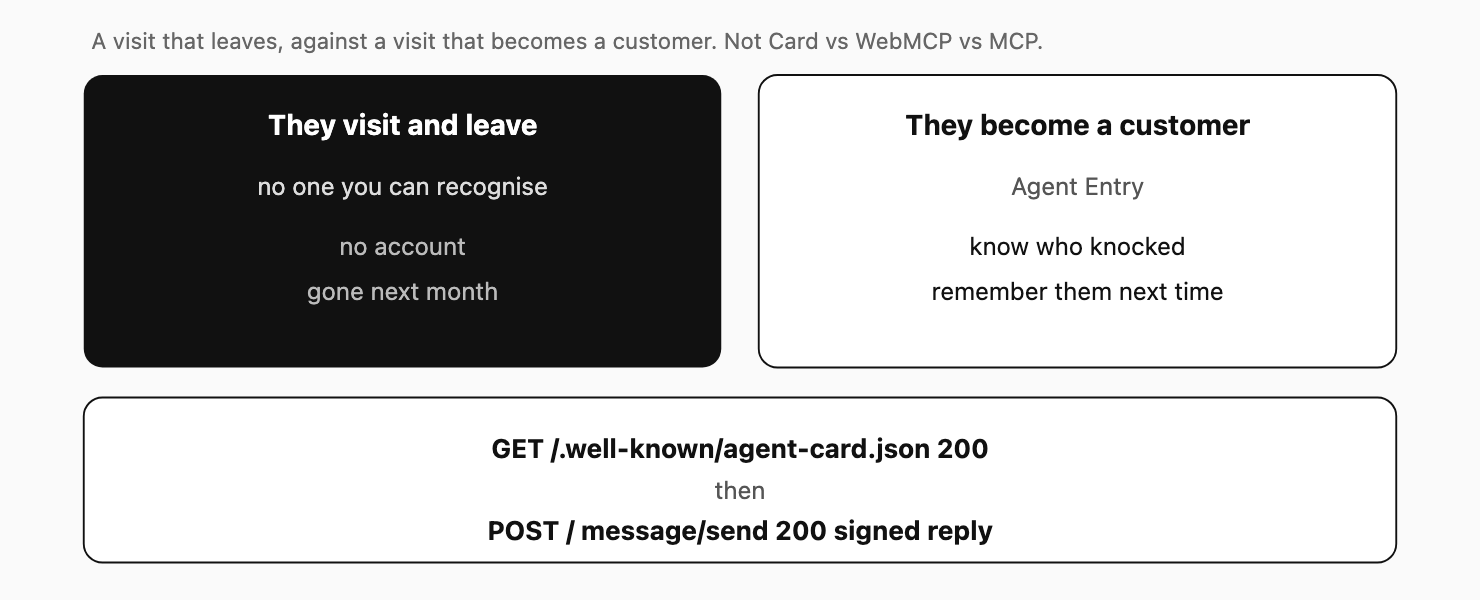
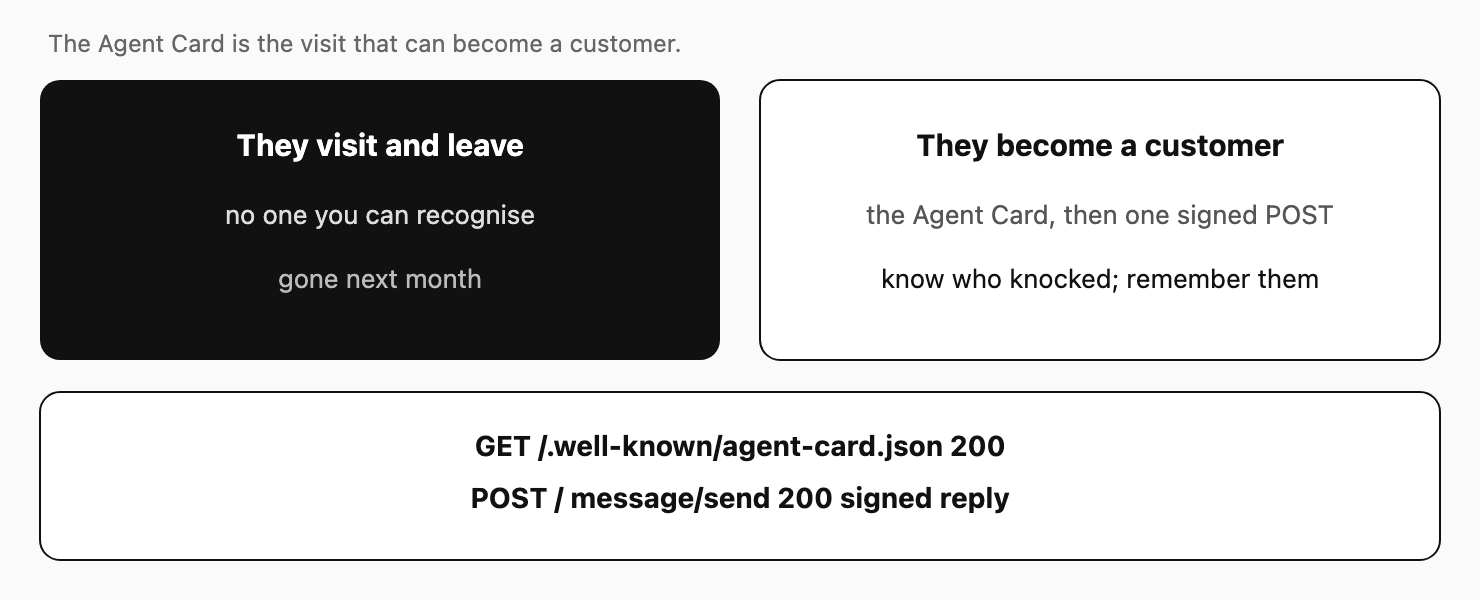
docs: drop the peer table; the product is the Agent Card door
llms.txt, WebMCP and MCP sat in the same grid as this file. They are
other things a site may run. The figure is a visit that leaves against
a customer from the card.

diff --git a/README.md b/README.md
@@ -31,33 +31,23 @@ it is still them.
 
 Any A2A client works: their agent, `curl`, not a particular router or ours.
 
-It sits **beside** what you may already have, and replaces none of it.
-`llms.txt` is a GET brochure, not this protocol. MCP and WebMCP are often named
-together; they are not the same:
+This file is the Agent Card and the door. That is the visit that can become a
+customer. It sits beside what you may already have, and replaces none of it.
 
-| | what it is | this package |
-|---|---|---|
-| **llms.txt** | GET a brochure — describes the site | complementary |
-| **Agent Card** | GET `/.well-known/agent-card.json` — DID, url, skills | **Agent Entry publishes it** |
-| **WebMCP** | tools *in the page*, while a person is in the tab | complementary — [see below](#pairs-with-webmcp-the-tab-conversation-becomes-a-customer) |
-| **MCP** | a tool *server* over HTTP; identifies the client app | complementary — neither substitutes |
-| **Agent Entry** | POST A2A `message/send` — the key *is* the account | **this package** |
-| **Handoff** | a tool result that *points at* this door (names your DID) | destination — not implemented here |
+`llms.txt` is a brochure — prose, not a contract. WebMCP is tools on the existing
+page, for a person already in the tab. MCP is a tool server for an app that holds
+a token. None of those is this: a returning customer from a signed knock.
 
-`llms.txt` and the Agent Card are both GET documents. They are not the same: the brochure
-is prose, the card is the door's contract (`securitySchemes`, `signedFields`,
-`exampleRequest`). The agent reads that contract **before** it knocks (AE-8). The act is
-then one **POST** `message/send` — already formed correctly — and a signed reply comes
+The agent reads the card **before** it knocks (AE-8). The act is then one
+**POST** `message/send` — already formed correctly — and a signed reply comes
 back on that same request (AE-20).
 
-A **handoff** is how WebMCP or MCP send the visitor *here*: the tool result names this
-entry's DID, and the next act is a signed knock at this origin. This file does not follow
-a handoff and does not parse `_meta.handoff`. It is where one lands. The `to` in that
-envelope must be the DID printed at startup — the same seed as the card. A visitor (or
-any router they run) is who honours the pointer.
-
-A headless agent (no person in the tab) should knock **here**, or at your MCP server — not
-scrape the page that holds your WebMCP tools.
+A **handoff** is how a tool on the page, or a tool server, can send the visitor
+*here*: the result names this entry's DID, and the next act is a signed knock at
+this origin. This file does not follow a handoff and does not parse
+`_meta.handoff`. It is where one lands. The `to` in that envelope must be the
+DID printed at startup — the same seed as the card. A visitor (or any router
+they run) is who honours the pointer.
 
 | | |
 |---|---|
@@ -65,10 +55,7 @@ scrape the page that holds your WebMCP tools.
 | **Not for** | People writing the visiting agent. This package does not find doors, MCP servers, or WebMCP tools; it *is* a door. |
 | **The problem** | A GET-only document cannot recognise anyone. A signup form does not work for an agent. The first signed POST has to *be* the account. |
 
-Card, WebMCP and MCP are different jobs. The contrast that matters here is
-a visit that leaves against a visit that becomes a customer:
-
-![They visit and leave. Agent Entry makes them a customer.](diagrams/become.png)
+![They visit and leave. The Agent Card is the visit that can become a customer.](diagrams/become.png)
 
 One file. Zero dependencies. No database. Node 20+.
 
